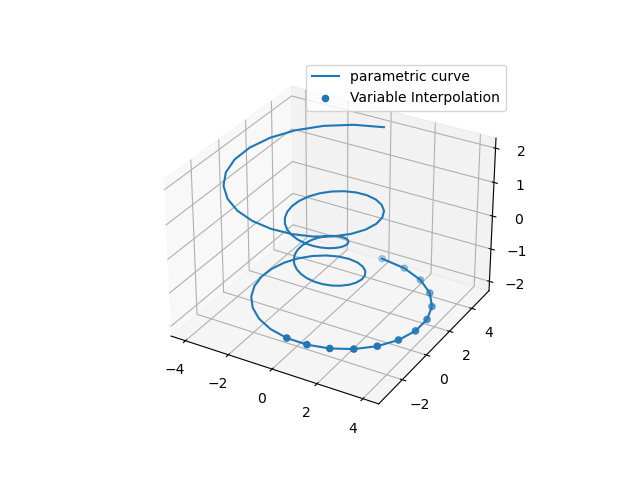
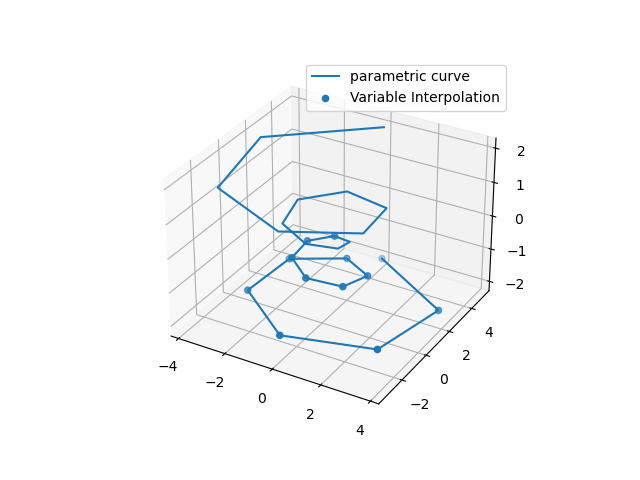
params

diff --git a/create_gif_params.py b/create_gif_params.py
@@ -2,15 +2,22 @@
 import matplotlib.pyplot as plt
 import matplotlib.animation as animation
 import numpy as np
+import pandas as pd
 import glob
 from PIL import Image
 
+num_points = 25
 # Prepare arrays x, y, z
-theta = np.linspace(-4 * np.pi, 4 * np.pi, 100)
-z = np.linspace(-2, 2, 100)
+theta = np.linspace(-4 * np.pi, 4 * np.pi, num_points)
+z = np.linspace(-2, 2, num_points)
 r = z**2 + 1
 x = r * np.sin(theta)
 y = r * np.cos(theta)
+df = pd.DataFrame()
+df['z'] = z
+df['x'] = x
+df['y'] = y
+df.to_csv("parametric_xyz.csv")
 for s in range(1,len(x)):    
     ax = plt.figure().add_subplot(projection='3d')
     s_x = x[0:s]
